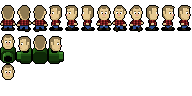
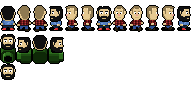
Misc updates.

diff --git a/demo-site/index.html b/demo-site/index.html
@@ -97,8 +97,9 @@
                 </div>
                 <div class="span8">
                     <h3>Current Version</h3>
-                    <p><strong>2014/04/09 7:45 AM EDT</strong> - Added basic player selection (still all Brads, need to add in others), win/lose conditions.</p>
+                    <p><strong>2014/04/09 7:45 AM EDT</strong> - Added character art for all but Ryan. If I don't have more time to work on this on my flight or at the airport, I guess this is the "PAX build".</p>
                     <h3>Older Versions</h3>
+                    <p><strong>2014/04/09 7:45 AM EDT</strong> - Added basic player selection (still all Brads, need to add in others), win/lose conditions.</p>
                     <p><strong>2014/04/07 5:00 AM EDT</strong> - Added title screen, Xbox controller support (a bit shaky in Flash release). Some work towards a player select screen, but this particular build just adds a Brad for every active controller on title screen (make sure you move stick or press a button or player won't be added). If Flash doesn't add controller players, just refresh and try again - I'll try to get this more robust but may opt for just doing Windows/Mac builds for the time being.</p>
                     <p><strong>2014/04/05 6:00 AM EDT</strong> - Added "mad bomber" - after dying you rotate around playfield and can shoot bombs. Added punch mechanic (needs a sound effect and/or animation to give it impact).</p>
                     <p><strong>2014/04/04 4:35 PM EDT</strong> - Basic throwing (needs more work/refinment - animation, timing, collision w/ players etc.)</p>
